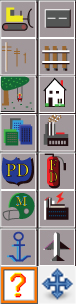
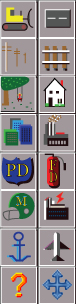
a12.4: small facelift and argparsing
- added nice background to ControlView
- homogenized pan and query tool icons to match rest of tool icons.
- ControlView now loads color from config file
- LayoutLabel now allows text colour to be set.
- toolcursors now load their border colour specific to tool type from
config file.
- command line argument parsing now happens via argparse. several
options available, for example start city is now specified from command
argument.

Changed region(s): [[0.0, 0.8586, 1.0, 1.0]]

diff --git a/gui/controlView.py b/gui/controlView.py
@@ -164,7 +164,7 @@ class MessageQueue(Widget):
                                  mgGroup)
 
         self.border = createRect(self.x, self.y + self.height,
-                                 self.width, 1,
+                                 self.width, 2,
                                  (0, 0, 0, 255),
                                  self.parentFrame.batch,
                                  highlightGroup)
@@ -178,7 +178,6 @@ class MessageQueue(Widget):
                 msg.index -= len(item)
 
     def addMessage(self, message):
-        #print message
         if len(self.msgs) and message == self.msgs[0].string:
             return
 
@@ -363,8 +362,8 @@ class CityMenu(MenuView):
                                              'POPULATION')
         self.fundsText = gui.config.get('control_panel_strings', 'FUNDS')
         self.speedText = " Speed"
-
-        self.lastCityTime = -4  # one month in past
+        self.lastCityTime = -4
+        self.textColor = controlPanel.textColor
 
         super(CityMenu, self).__init__(controlPanel, self.createLayout())
 
@@ -374,26 +373,32 @@ class CityMenu(MenuView):
         self.mainMenuButton = ButtonLabel(text=mainMenuText,
                                           fontName=fontName,
                                           fontSize=fontSize,
+                                          color=self.textColor,
                                           action=self.mainMenuAction)
         self.speedButton = ButtonLabel(text="",
                                        fontName=fontName,
                                        fontSize=fontSize,
+                                       color=self.textColor,
                                        action=self.speedAction)
         self.dataViewButton = ButtonLabel(text="Data Menu",
                                           fontName=fontName,
                                           fontSize=fontSize,
+                                          color=self.textColor,
                                           action=self.dataViewAction)
         self.fundsButton = ButtonLabel(text="",
                                        fontName=fontName,
                                        fontSize=fontSize,
+                                       color=self.textColor,
                                        action=self.fundsAction)
         self.dateButton = ButtonLabel(text="",
                                       fontName=fontName,
                                       fontSize=fontSize,
+                                      color=self.textColor,
                                       action=self.dateAction)
         self.populationButton = ButtonLabel(text="",
                                             fontName=fontName,
                                             fontSize=fontSize,
+                                            color=self.textColor,
                                             action=self.populationAction)
         return VerticalLayout([self.demandIndicator,
                                self.mainMenuButton,
@@ -665,8 +670,11 @@ class ControlView(Frame, pyglet.event.EventDispatcher):
 
     def __init__(self, microWindow, cityView):
         self.fgGroup = fgGroup
+        self.bgImg = pyglet.image.load('res/controlviewbg.png')
         self.bg = None
         self.border = None
+        textColorStr = gui.config.get('control_panel', 'TEXT_COLOR')
+        self.textColor = list(map(int, tuple(textColorStr.split(','))))
 
         self.msgs = MessageQueue(padding=3)
 
@@ -701,6 +709,10 @@ class ControlView(Frame, pyglet.event.EventDispatcher):
         if self.enabled:
             super(ControlView, self).size(frame)
             self.width, self.height = self.WIDTH, frame.height
+            self.bg = pyglet.sprite.Sprite(self.bgImg, batch=self.batch, group=bgGroup)
+            #TODO get rid of this hack - work this into actual image
+            self.bg.color = (140,175,140)
+            self.bg.opacity = 228
 
     def expand(self, width, height):
         Frame.expand(self, width, height)
@@ -710,7 +722,8 @@ class ControlView(Frame, pyglet.event.EventDispatcher):
         if self.enabled:
             super(ControlView, self).layout(x, y)
             self.createBg() # immutatable
-            # print self.content.content[0].width
+            self.bg.x = x
+            self.bg.y = y
 
     '''
         adds specified menu to layout, removing the old.
@@ -750,13 +763,14 @@ class ControlView(Frame, pyglet.event.EventDispatcher):
         super(ControlView, self).delete()
 
     def createBg(self):
-        self.bg = createRect(self.x, self.y,
+
+        '''self.bg = createRect(self.x, self.y,
                              self.width, self.height,
                              self.bgColor,
                              self.parentFrame.batch,
-                             bgGroup)
+                             bgGroup)'''
         self.border = createRect(self.x, self.y,
-                                 1, self.height,
+                                 2, self.height,
                                  (0, 0, 0, 255),
                                  self.parentFrame.batch,
                                  highlightGroup)

diff --git a/gui/layout.py b/gui/layout.py
@@ -218,14 +218,13 @@ class ButtonGraphic(LayoutGraphic):
 
 
 class LayoutLabel(Widget):
-
-
-    def __init__(self, text="", fontName=None, fontSize=None):
+    def __init__(self, text="", fontName=None, fontSize=None, color=(255,255,255,255)):
         super(LayoutLabel, self).__init__()
         self.text = text
         self.label = None
         self.fontName = fontName
         self.fontSize = fontSize
+        self.color = color
 
     def delete(self):
         self.active = False
@@ -245,7 +244,8 @@ class LayoutLabel(Widget):
                                batch=self.parentFrame.batch,
                                group=self.parentFrame.fgGroup,
                                font_name=self.fontName,
-                               font_size=self.fontSize)
+                               font_size=self.fontSize,
+                               color=self.color)
 
             font = self.label.document.get_font()
             self.width = self.label.content_width
@@ -277,13 +277,15 @@ class ButtonLabel(LayoutLabel):
                  text=None,
                  fontName=None,
                  fontSize=None,
+                 color=(255,255,255,255),
                  action=None):
         super(ButtonLabel, self).__init__(text=text,
                                           fontName=fontName,
-                                          fontSize=fontSize)
+                                          fontSize=fontSize,
+                                          color=color)
         self.action = action
         self.border = None
-        self.color = (255, 255, 255, 255)
+        self.color = color
         self.pressedColor = (0, 0, 0, 255)
         self.borderColor = (255, 255, 255, 255)
         self.pressed = False

diff --git a/micro.py b/micro.py
@@ -3,21 +3,37 @@ Created on Aug 29, 2015
 
 @author: chris
 '''
+import argparse
 import pyglet
+pyglet.options['debug_graphics_batch'] = False
 pyglet.lib.load_library('avbin')
 pyglet.have_avbin = True
-pyglet.options['debug_gl'] = True
-pyglet.options['debug_graphics_batch'] = False
 
-from gui.microWindow import MicroWindow
 
-'''import sys
-sys.stdout = open('debugbatch.txt', 'w')'''
+def doHighPriorityProcess():
+    import os, psutil
+    p = psutil.Process(os.getpid())
+    p.nice(psutil.HIGH_PRIORITY_CLASS)
 
 if __name__ == '__main__':
-    '''import os, psutil
-    p = psutil.Process(os.getpid())
-    p.nice(psutil.HIGH_PRIORITY_CLASS)'''
+    parser = argparse.ArgumentParser()
+    parser.add_argument('-d', '--debug', dest='debugMode',
+                        default=False, action="store_true")
+    parser.add_argument('--disable-sound', dest='disableSound',
+                        default=False, action="store_true")
+    parser.add_argument('--print-to-file', dest='printToFile')
+    parser.add_argument('--skip-to-city', dest='skipToCity')
+    args = parser.parse_args()
 
-    app = MicroWindow()
+    if args.printToFile:
+        import sys
+        sys.stdout = open(args.printToFile, 'w')
+
+    if not args.debugMode:
+        pyglet.options['debug_gl'] = False
+
+    # doHighPriorityProcess()
+
+    from gui.microWindow import MicroWindow
+    app = MicroWindow(args.skipToCity, not args.disableSound)
     pyglet.app.run()

diff --git a/gui/cityView.py b/gui/cityView.py
@@ -434,12 +434,11 @@ class CityView(layout.Spacer):
         self.tileImageLoader = TileImageLoader(
             gui.config.get('misc', 'TILES_FILE'),
             TILESIZE, flipTilesVert=True, padding=2)
-        self.tbatch = pyglet.graphics.Batch()
+        self.tBatch = pyglet.graphics.Batch()
 
         self.viewportGroup = ViewportGroup(BG_RENDER_ORDER)
         self.blinkingGroup = BlinkingGroup(MG_RENDER_ORDER, self.viewportGroup)
-        self.toolCursorGroup = ToolCursorGroup(
-            FG_RENDER_ORDER, self.viewportGroup)
+        self.toolCursorGroup = ToolCursorGroup(FG_RENDER_ORDER, self.viewportGroup)
 
         self.tileMapRenderer = TileMapRenderer(self.tileImageLoader, self.viewportGroup)
         self.toolCursor = None
@@ -569,9 +568,10 @@ class CityView(layout.Spacer):
         newCursor = ToolCursor()
         newCursor.rect = newRect
 
-        # tc.borderColor = (0, 200, 200)
-        roadsBg = gui.config.get('tools.bgcolor', tool.name)
-        newCursor.fillColor = list(map(int, tuple(roadsBg.split(','))))
+        borderColor = gui.config.get('tools.bordercolor', tool.name)
+        newCursor.borderColor = list(map(int, tuple(borderColor.split(','))))
+        bgColor = gui.config.get('tools.bgcolor', tool.name)
+        newCursor.fillColor = list(map(int, tuple(bgColor.split(','))))
 
         self.setToolCursor(newCursor)
 

diff --git a/gui/microWindow.py b/gui/microWindow.py
@@ -56,7 +56,7 @@ class MicroWindow(pyglet.window.Window, LayoutWindow):
     sized and positioned within this window.
     '''
 
-    def __init__(self):
+    def __init__(self, skipToCity=None, soundEnabled=True):
         self.register_event_type('speed_changed')
 
         self.DEFAULT_WIDTH = int(gui.config.get('window', 'DEFAULT_WIDTH'))
@@ -114,16 +114,27 @@ class MicroWindow(pyglet.window.Window, LayoutWindow):
             pyglet.window.key._5: speeds['Super Fast']}
         self.speed = None
 
-        self.newCity(gameLevel.MIN_LEVEL)
-
-        #self.loadCity('cities/kyoto.cty')
-
         sounds = [
             sound.Sound('music', 'res/sound/music.mp3', True)
         ]
         self.sounds = sound.Sounds(sounds)
-        self.sounds.setEnabled(False)
+        self.sounds.setEnabled(soundEnabled)
         #self.sounds.playSound('music')
+
+        if skipToCity is not None:
+            if skipToCity.lower() == "new":
+                self.newCity(gameLevel.MIN_LEVEL)
+            else:
+                self.loadCity('cities/' + skipToCity)
+        else:
+            assert False, "Start Menu Screen Not Implemented - Skip To City Must Be Specified"
+            pass
+            # do start menu screen/state
+
+
+
+
+
 
     def cityLoaded(self):
         return False if self.engine is None else True
